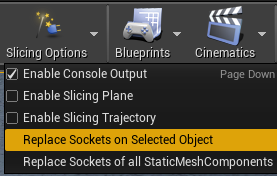
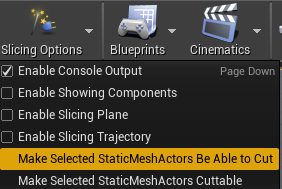
Pic

diff --git a/Documentation/Milestone2.md b/Documentation/Milestone2.md
@@ -70,37 +70,66 @@ These are all currently NEW implemented features that are useable in other proje
 
 ## Creating a new knife
 
-### Step 1: Creating sockets in the StaticMeshEditor
+### Step 1: Creating Sockets in the StaticMeshEditor
 
-* Same as in Milestone 1.
+For this first choose a StaticMesh on which you want the SlicingLogic to be.
+In this example we use the **SM_Knife_Table**. Double click on it in the
+**Content Browser** to open the StaticMeshEditor for it.
 
-### Step 2: Make the knife be able to cut
+In the top bottom should be a tab called **Socket Manager**. Press the button
+and add three sockets named **BladeBox**, **Handle** and **CuttingExitpointBox**.
+It should look like this: 
 
-* Go to the slicing toolbar entry and press the "Make Selected StaticMeshActors Be Able to Cut" button.
+![TutorialPic1](TutorialPictures/1.PNG)
+
+From there on you can begin to place the tokens as needed in the StaticMeshEditor, e.g.
+
+![TutorialPic2](TutorialPictures/2.PNG)
+
+With that done you can save the StaticMesh in the StaticMeshEditor and leave it.
+All the StaticMeshComponents with that StaticMesh now all have these Sockets.
+
+
+### Step 2: Spawn the boxes in the Editor
+
+Now that the knife has the boxes, we can begin to spawn them inside the editor.
+First we select the StaticMeshComponent in the Editor.
+
+Then on the top, in the same row as **Play** and **Launch**, there's the button
+called "**Slicing Options**", clicking on it reveals more options such as Debug
+Checkboxes. The important Button is "**Make Selected StaticMeshActors Be Able to Cut**".
+
+![TutorialPic6](TutorialPictures/6.PNG)
+
+After clicking it, it spawns the BoxComponents. If they don't appear at first
+simply click on something else and click on the knife again. It just needs
+to refresh.
+
+***The Knife is done. Result:***
+
+![TutorialPictures8](TutorialPictures/8.PNG)
 
 
 ## Make Object Cuttable
 
 * Step 1: Select the wanted static mesh components in the world.
-* Step 2: Go to the slicing toolbar entry and press the "Make Selected StaticMeshActors Cuttable" button.
+* Step 2: Go to the slicing toolbar entry, as above, and press the "Make Selected StaticMeshActors Cuttable" button.
+![TutorialPictures10](TutorialPictures/10.PNG)
 
 
 ## Activating Debug
 
-### Step 1: Click on Slicing Options
-
-* ...
-
-### Step 2: Check the Check Box
-
-* ...
-
+* Step 1: Click on Slicing Options as in the tutorials above.
+* Step 2: Check the desired Check Boxes in the popped up window.
+![TutorialPictures11](TutorialPictures/11.PNG)
 
 	
-# Todos
 
-* ...
+## Todos
 
-# Issues
+- Realistic Interactions and Physics of the Knife
+- Button to fill all Sockets of StaticMeshComponents, who fall under the Knife Category, with LogicBoxes
 
-* ...
+## Issues
+
+- The Debug Box showing the presumed exitpoint of the knife is only shown correctly at the first cut of the object.

diff --git a/Documentation/Tutorial.md b/Documentation/Tutorial.md
@@ -24,10 +24,7 @@ All the StaticMeshComponents with that StaticMesh now all have these Sockets.
 ### Step 2: Spawn the boxes in the Editor
 
 Now that the knife has the boxes, we can begin to spawn them inside the editor.
-First we select the StaticMeshComponent in the Editor followed by the
-StaticMeshComponent in the Detail View.
-
-![TutorialPic3](TutorialPictures/3.PNG)
+First we select the StaticMeshComponent in the Editor.
 
 Then on the top, in the same row as **Play** and **Launch**, there's the button
 called "**Slicing Options**", clicking on it reveals more options such as Debug
